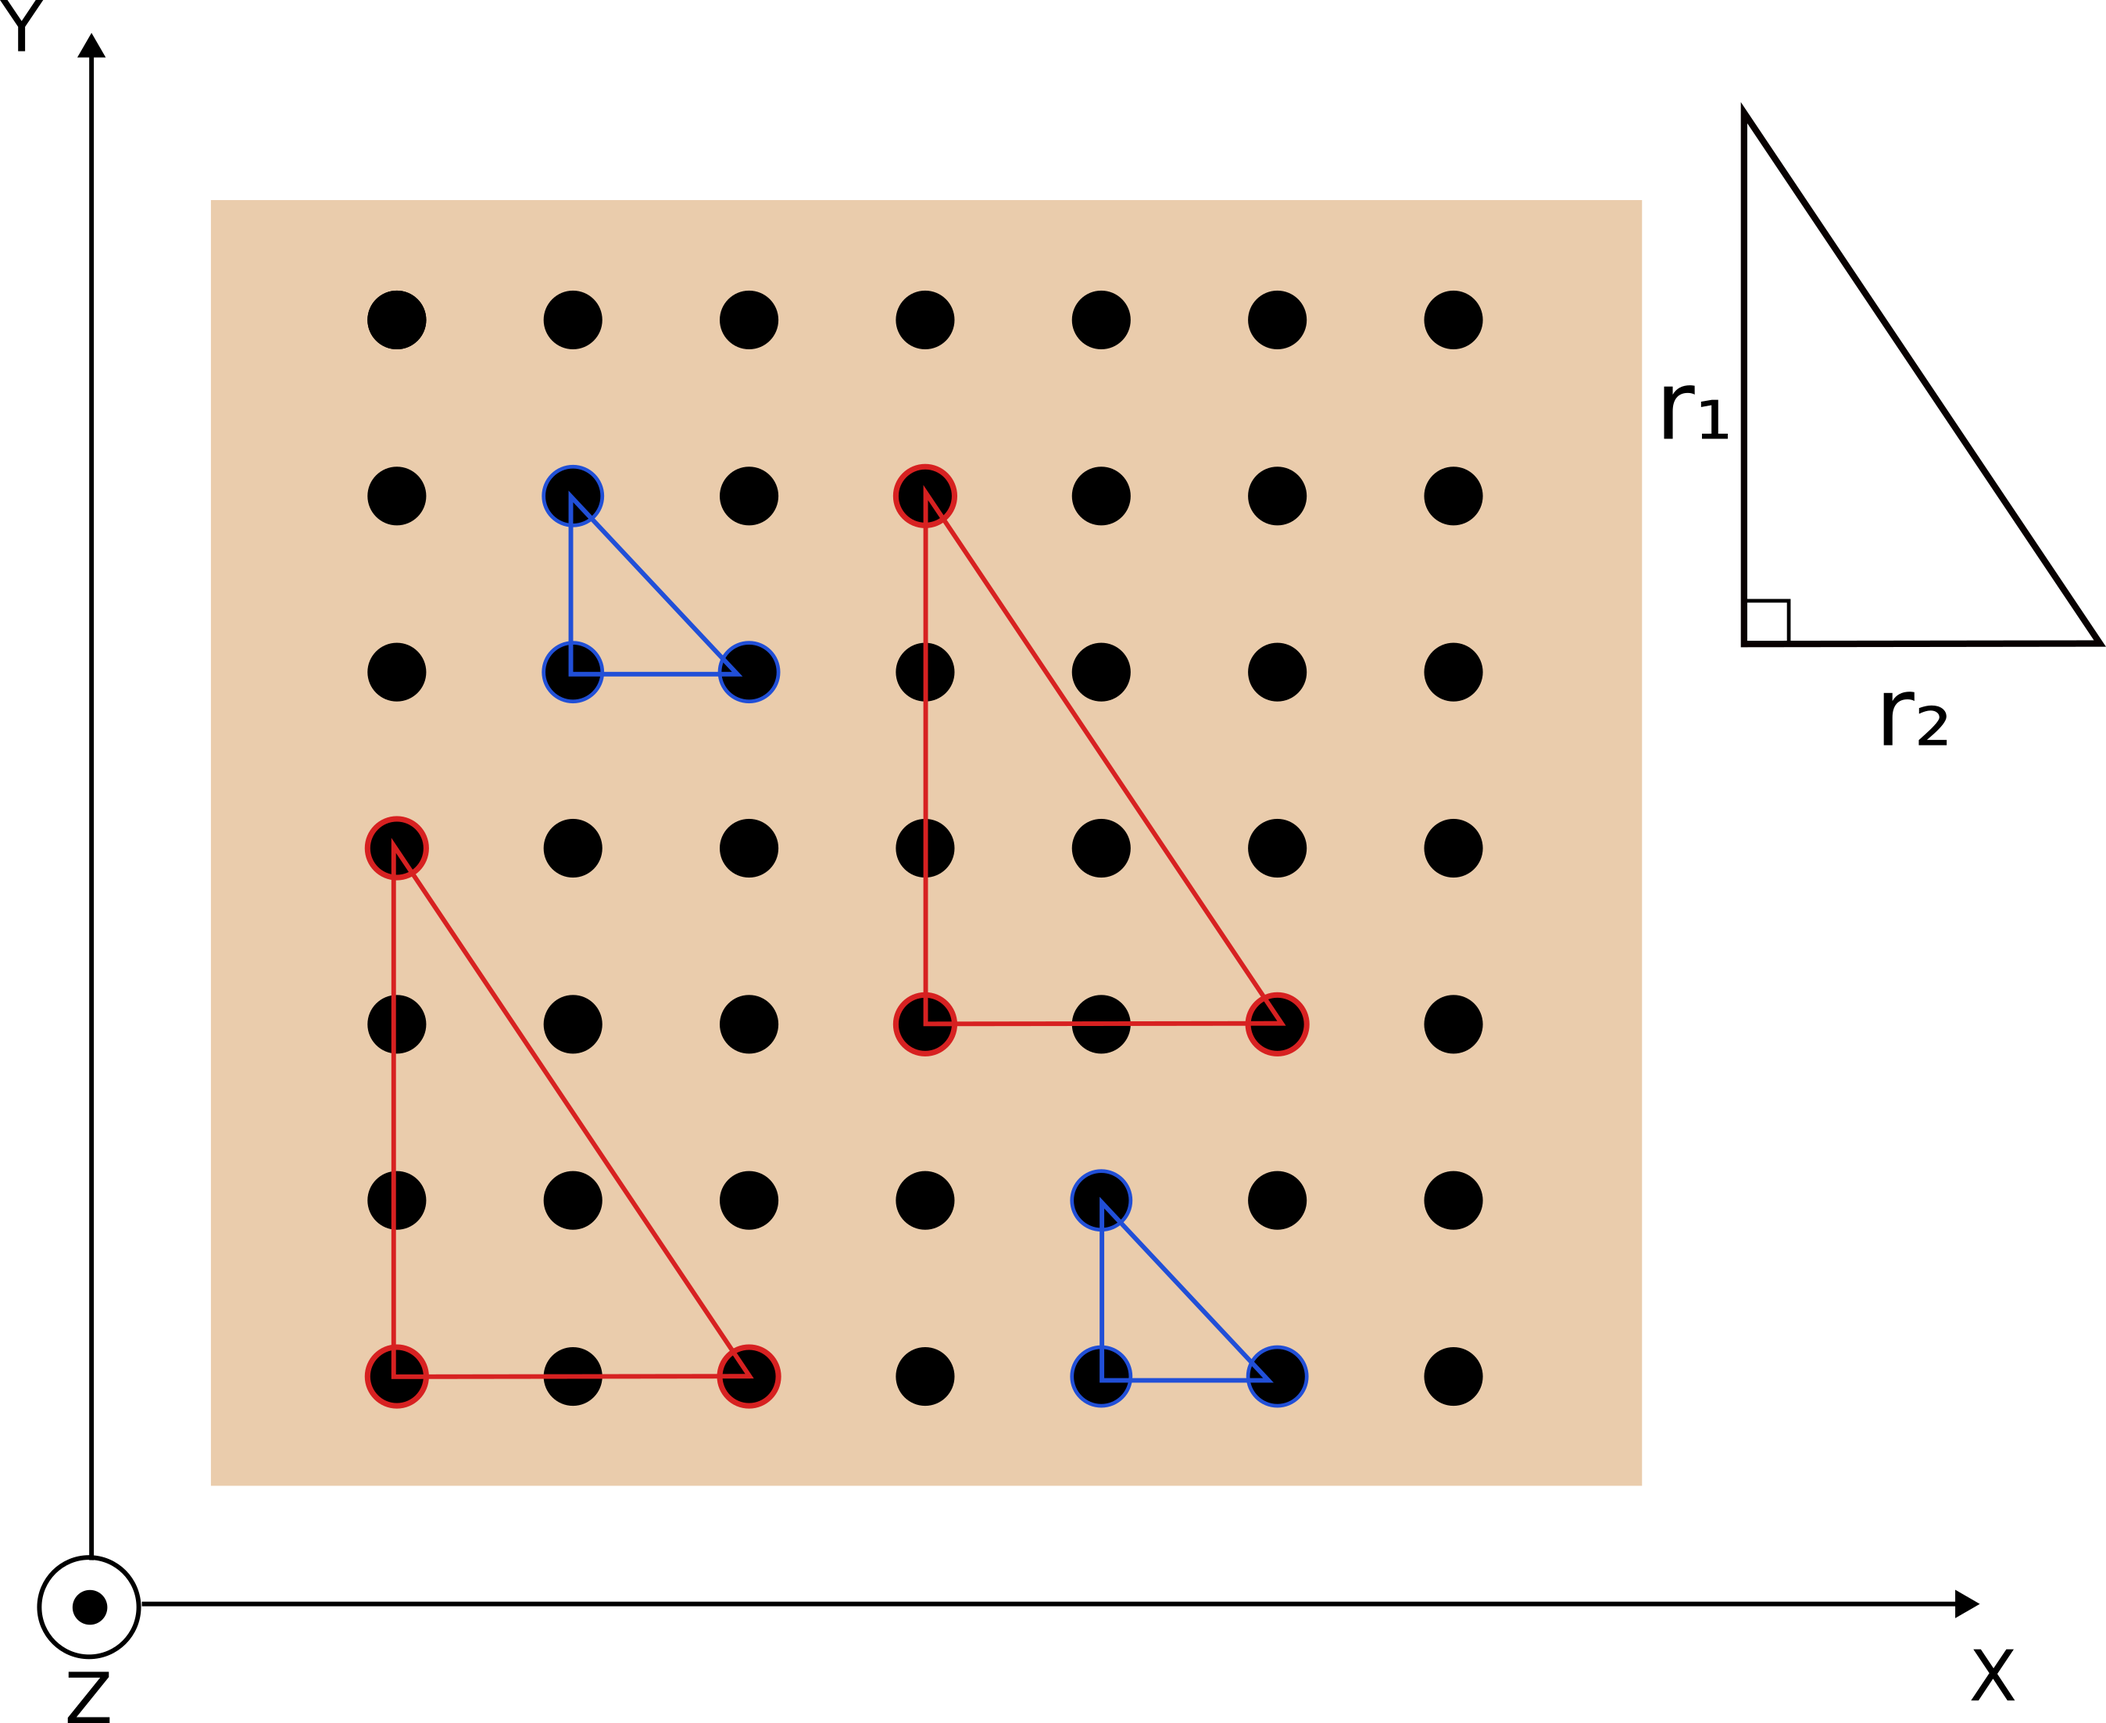
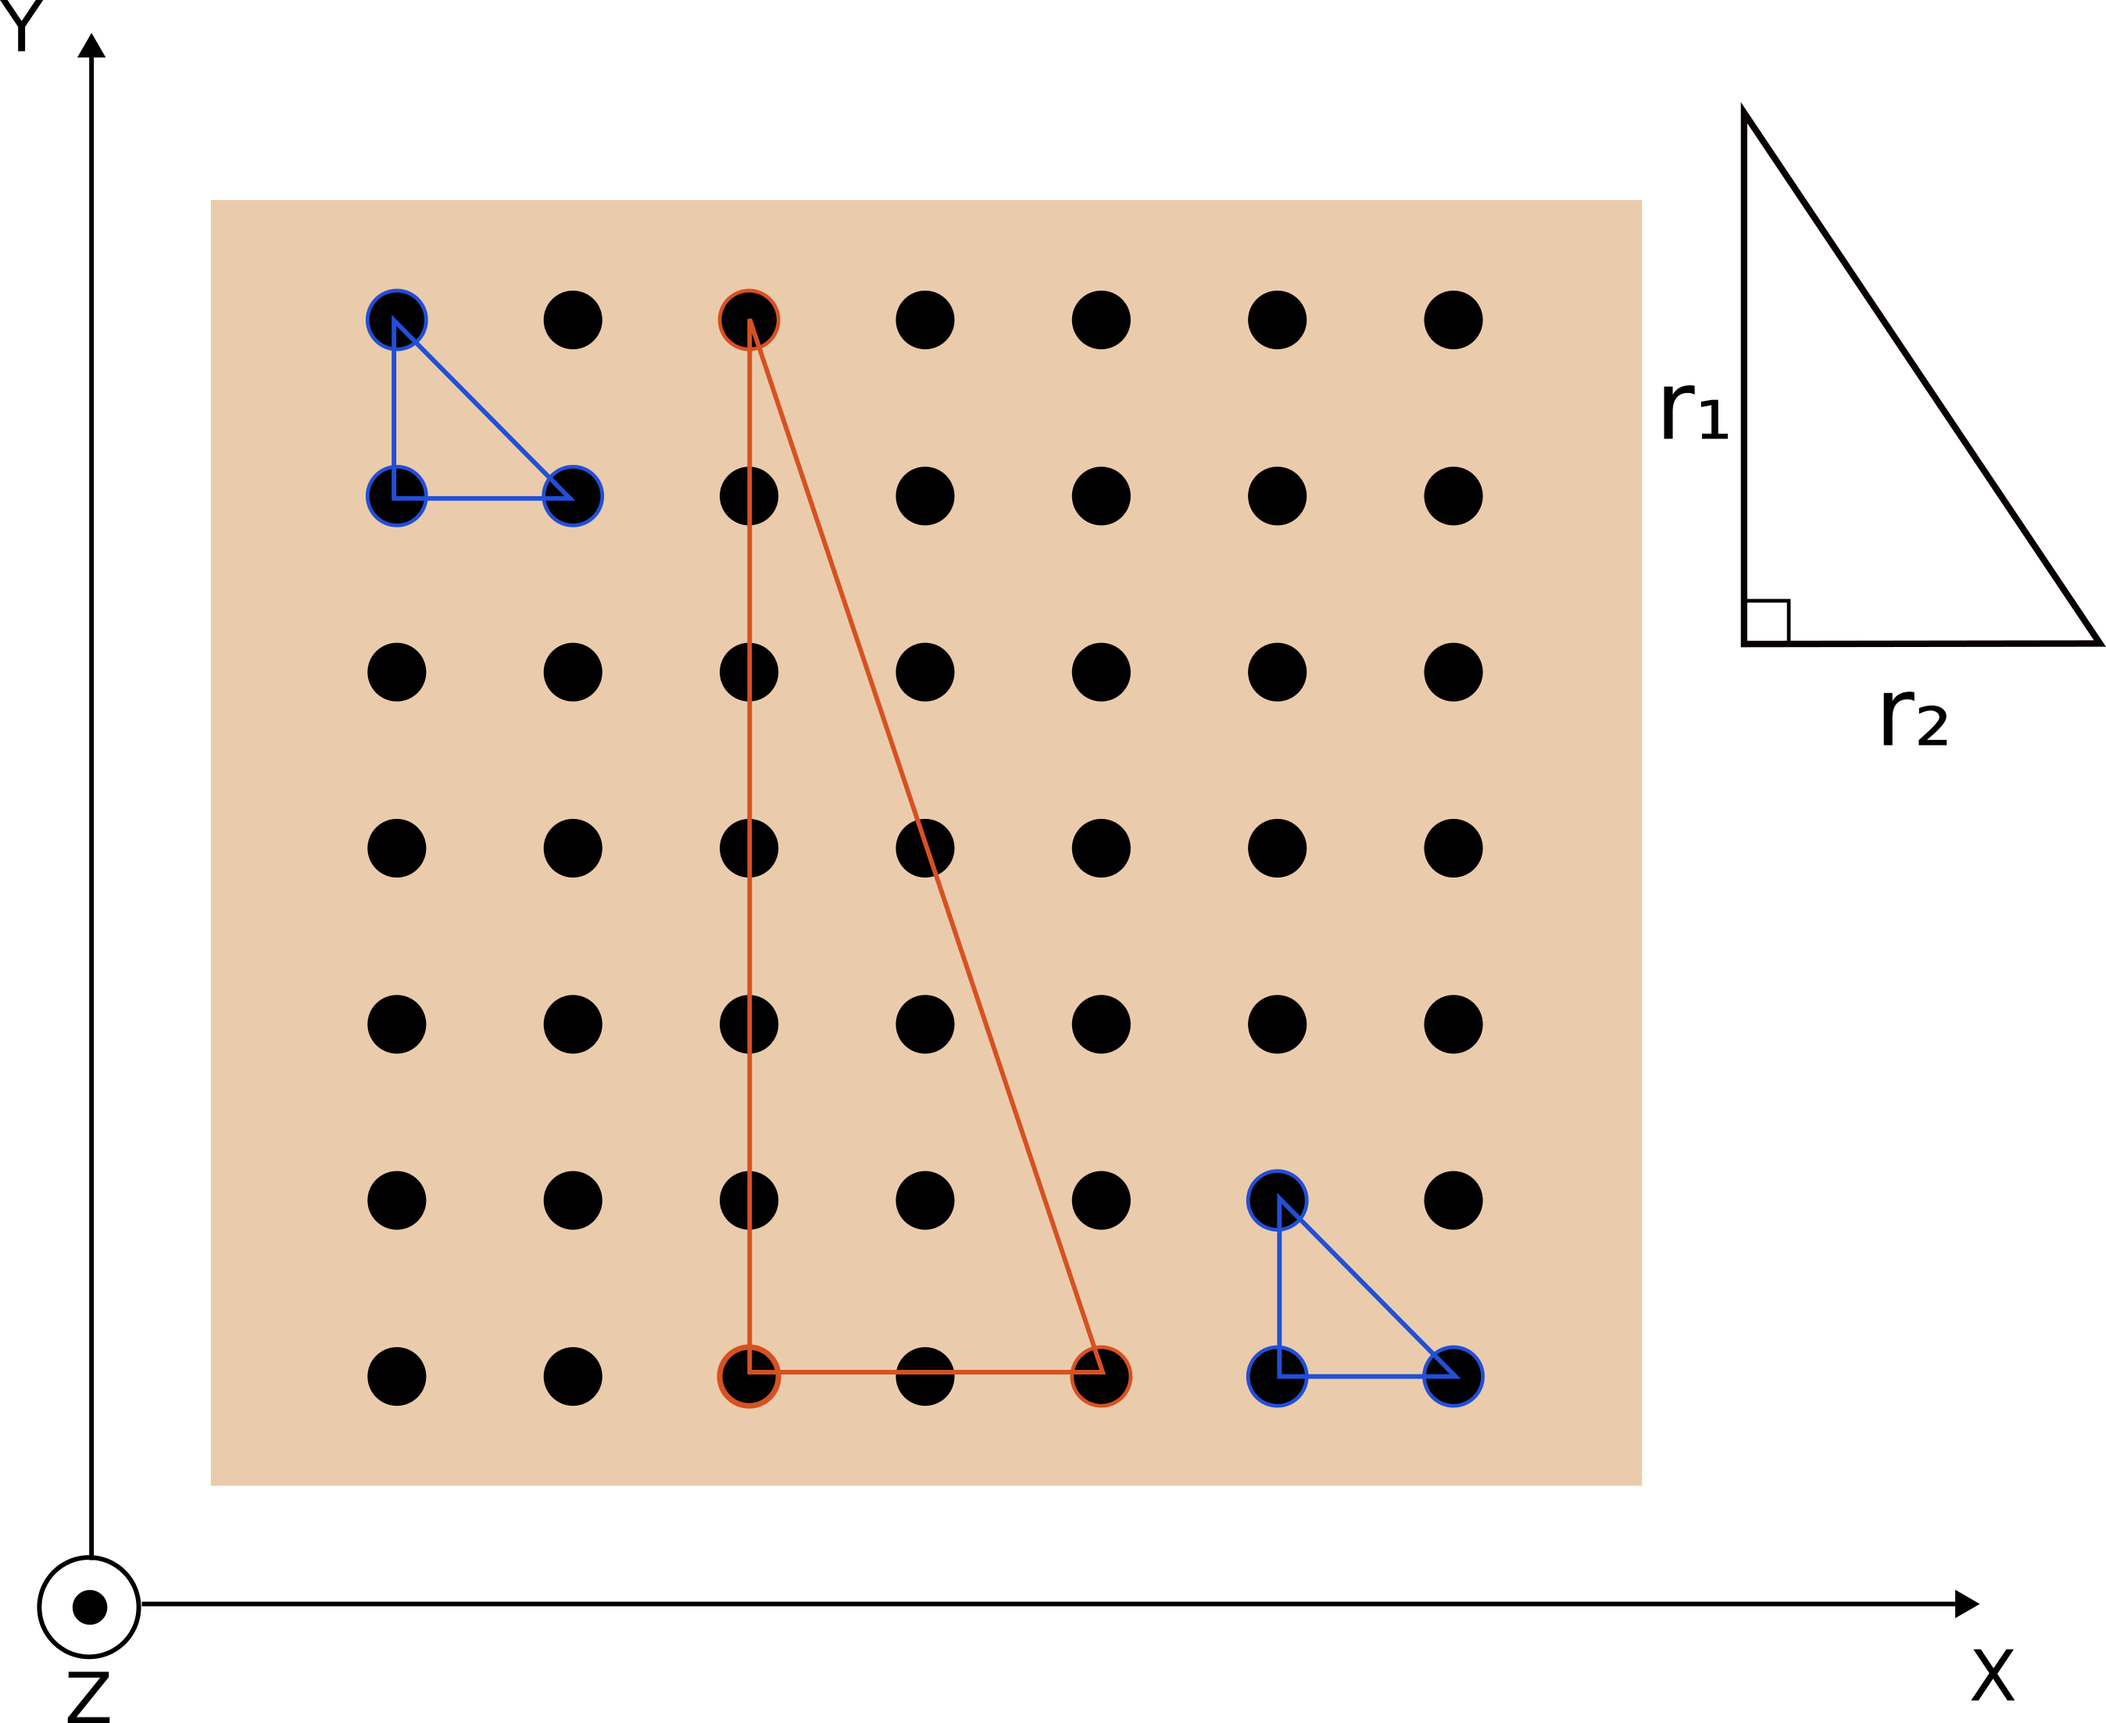
New truangles

diff --git a/paper.tex b/paper.tex
@@ -169,10 +169,10 @@ the input array along selected axes.
 \begin{figure}[ht]
   \centering
   \includegraphics[width=0.5\linewidth]{images/pattern.png}
-  \caption[]{Pattern used for calculation of $S_3$ function in out
+  \caption[]{The pattern used for calculation of $S_3$ function in our
     implementation. Vectors $x_1$ and $x_2$ are parallel to one of the axes $X$,
-    $Y$ or $Z$ and have lengths $r_1$ and $r_2$ respectively. Red triangles
-    contribute to $S_3(2, 3)$ and blue triangles contribute to $S_3(1, 1)$.}
+    $Y$ or $Z$ and have lengths $r_1$ and $r_2$ respectively. A red triangle
+    contributes to $S_3(2, 6)$ and blue triangles contribute to $S_3(1, 1)$.}
   \label{fig:pattern}
 \end{figure}
 
